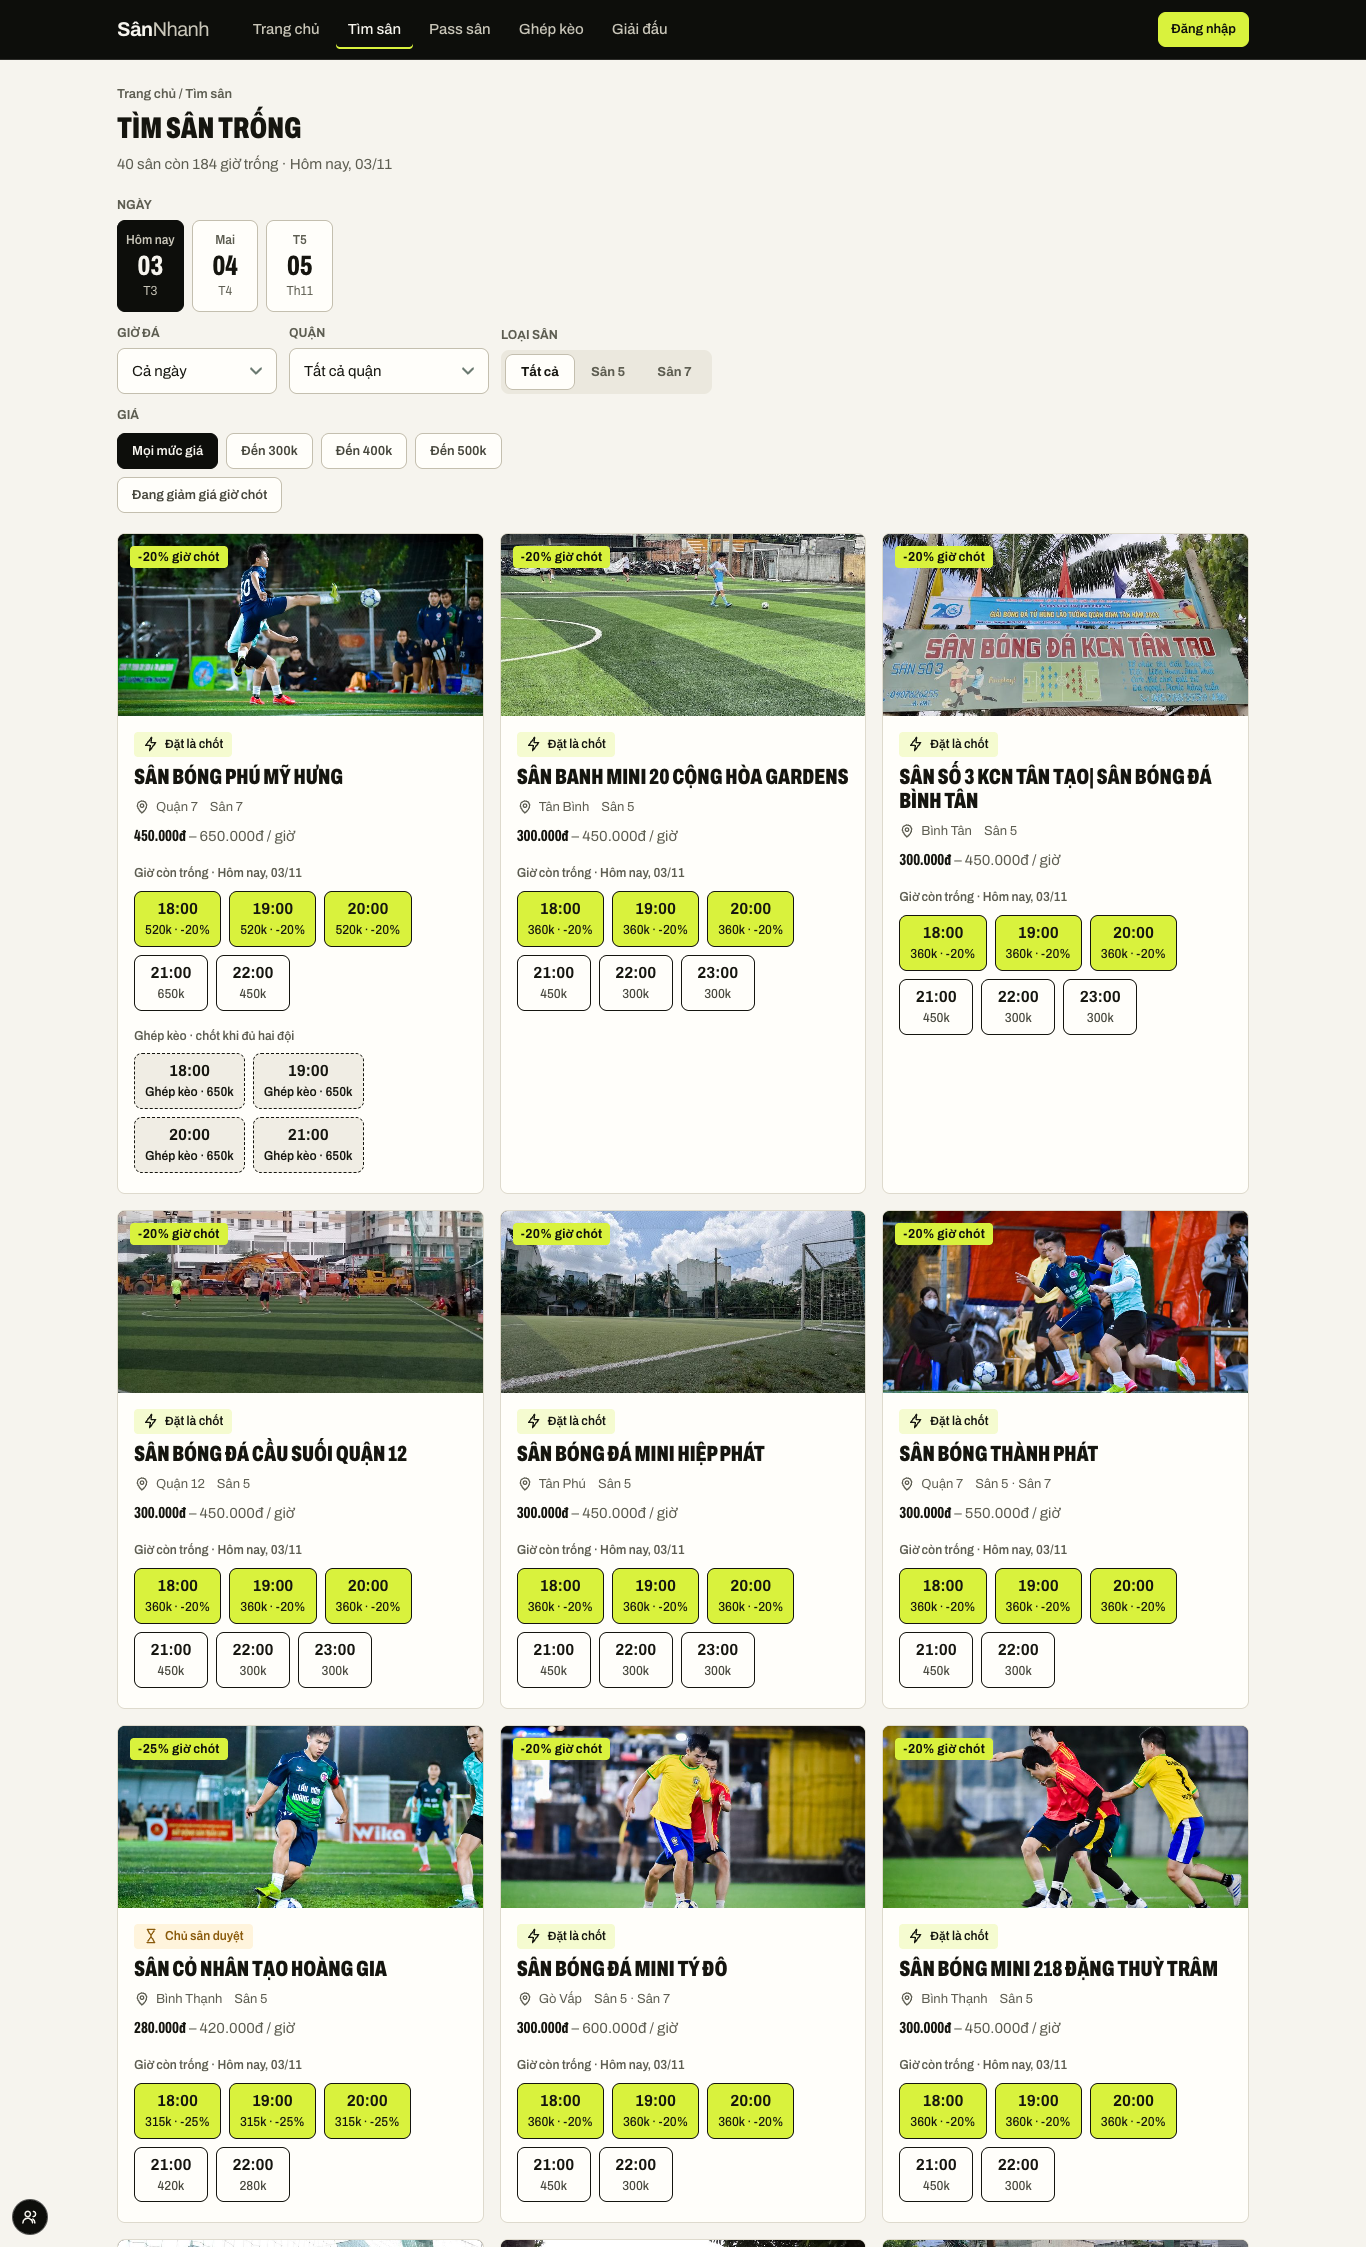
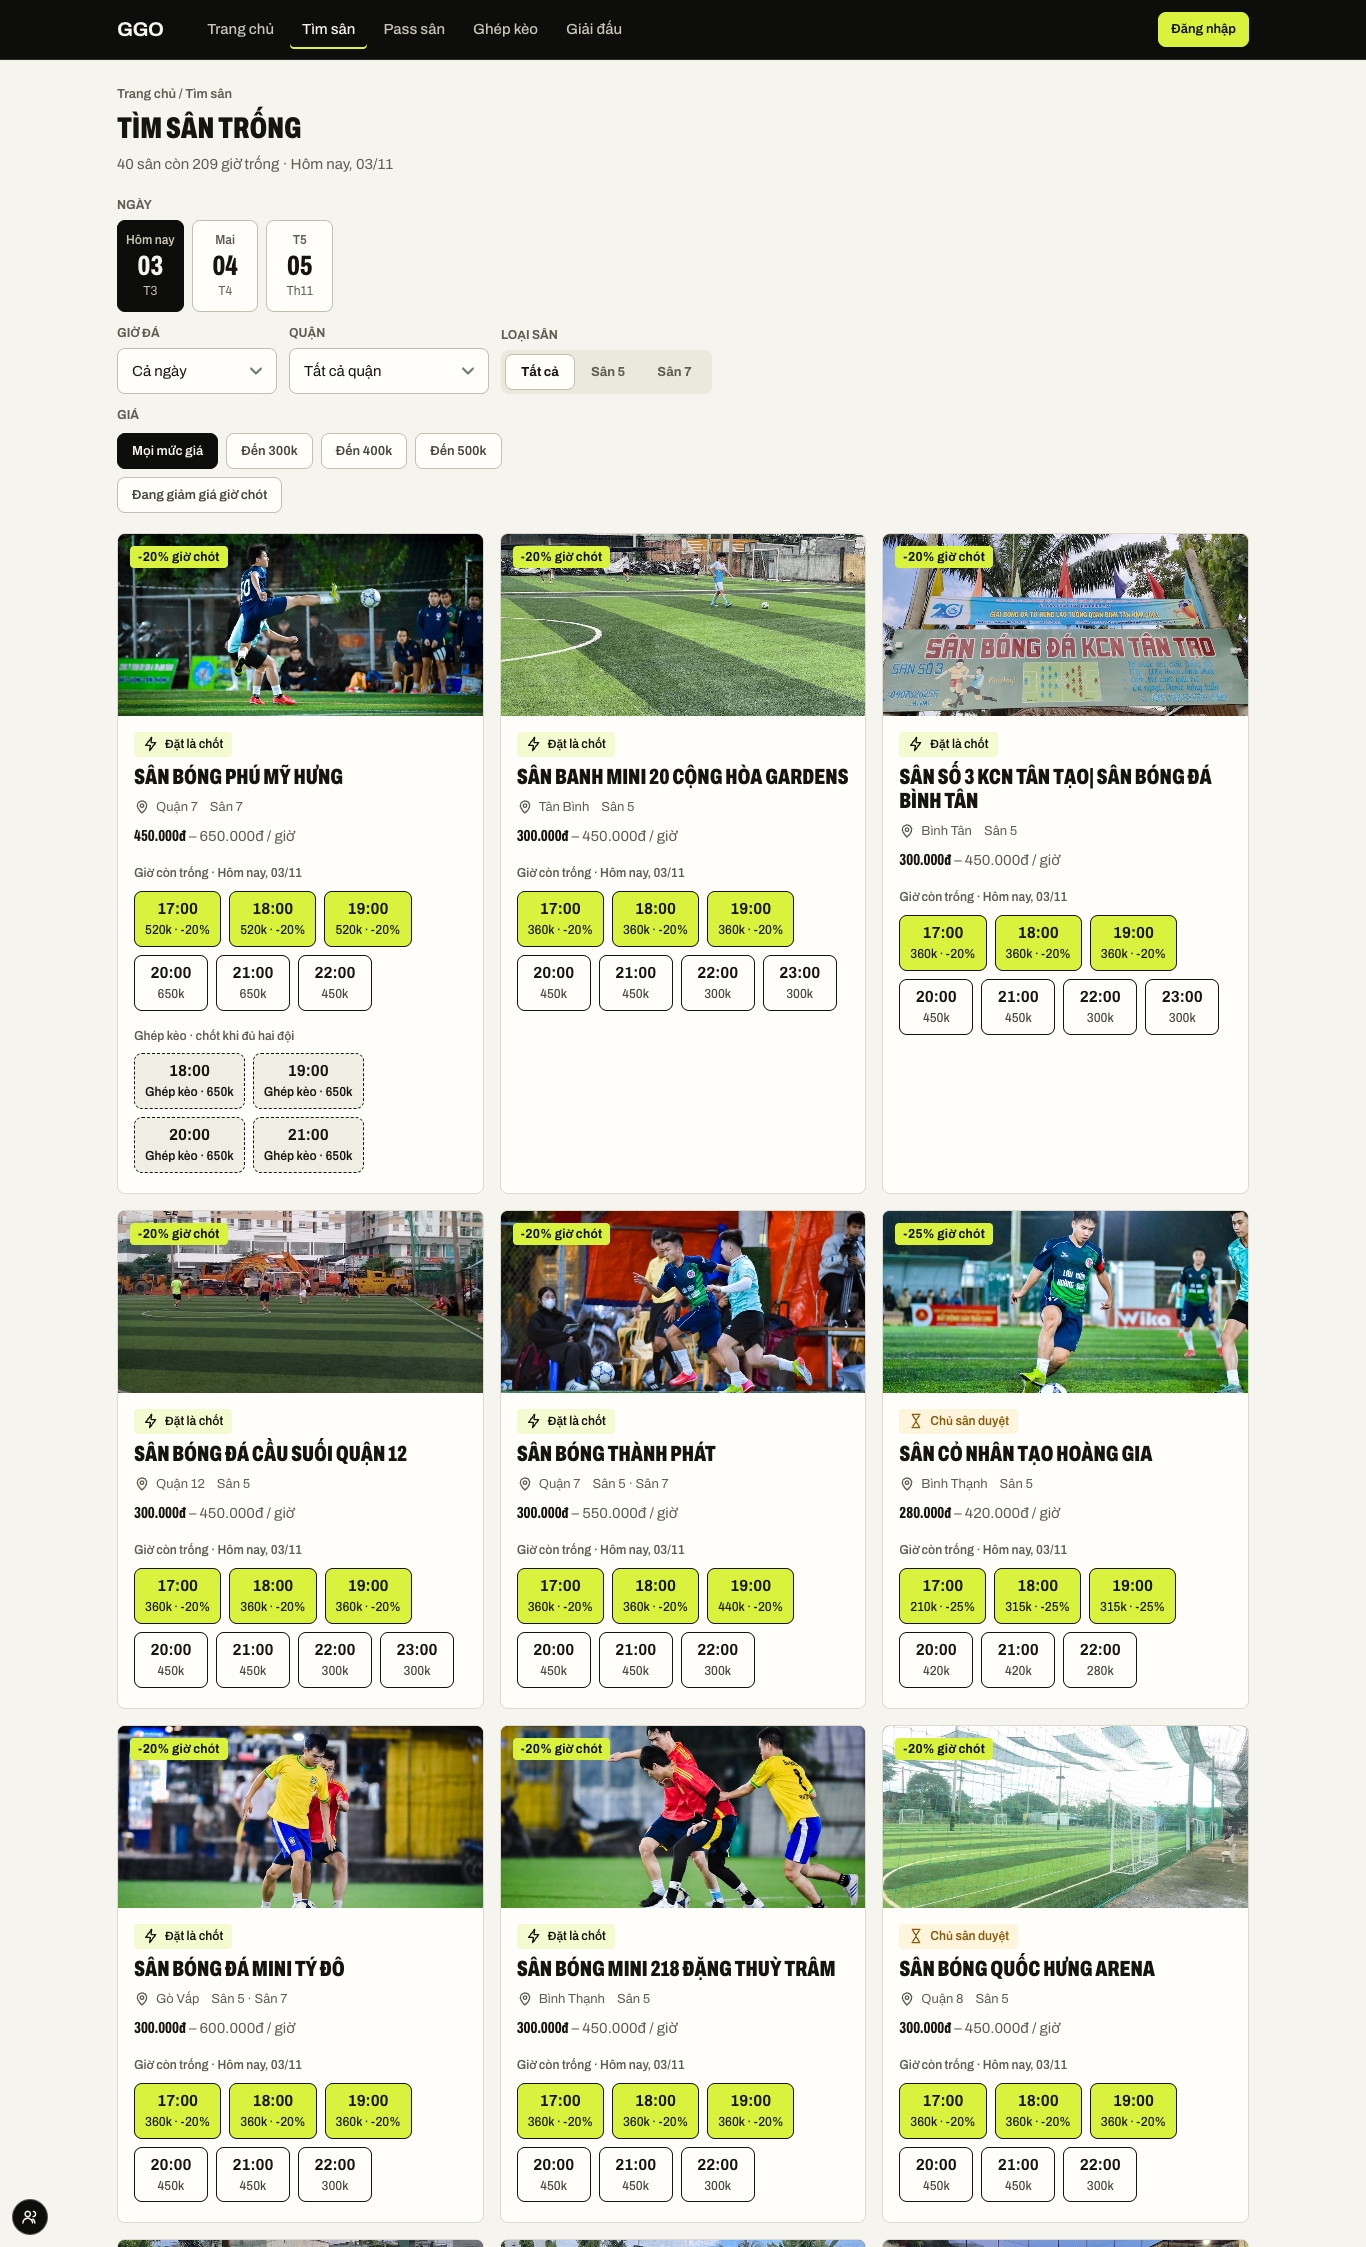
Chụp lại ảnh Buổi 2 với tên GGO và rà câu chữ báo cáo
Ảnh 4 trang ở ba khổ và ảnh hover/focus chụp lại trên bản dữ liệu giả.
Báo cáo và hồ sơ nộp mô tả đúng footer có khẩu hiệu, tiêu đề trang
giới thiệu và số dòng CSS hiện tại.

diff --git a/docs/buoi2/nop-bai.md b/docs/buoi2/nop-bai.md
@@ -34,6 +34,7 @@ Vì vậy **không viết là "chỉ dùng HTML/CSS"**. Phần HTML/CSS là các
 
 - **File:** `public/index.html` + `public/css/app.css`, header/footer dựng bởi `public/js/ui/shell.js`, nội dung bởi `public/js/index-page.js`.
 - **Header:** logo "GGO" (`.brand`), menu `<nav class="nav">` với Trang chủ, Tìm sân, Pass sân, Ghép kèo, Giải đấu, nút Đăng nhập (`shell.js`, hằng `NAV`).
+- **Footer:** `footer.site-footer` dựng bởi `shell.js`: logo GGO, khẩu hiệu "Thấy sân trống, đặt là đá." (`.footer-slogan`), một dòng mô tả, liên kết "Giới thiệu GGO" và chữ GGO cỡ lớn ở cuối (`.footer-wordmark`).
 - **Banner:** `section.match-hero` có ảnh (`hero-1920.jpg`, ảnh dọc riêng cho màn nhỏ bằng `<picture>`), tiêu đề `h1`, lời dẫn, form tìm sân (lời kêu gọi hành động) và nút "Xem tất cả giờ trống".
 - **Sân nổi bật:** khối "Sân còn trống" (`#venue-list`) và "Giờ trống gần nhất" (`#tonight-rows`).
 - **Liên kết tới trang danh sách:** form `action="/venues.html"` và liên kết "Xem tất cả giờ trống".
@@ -46,7 +47,7 @@ Vì vậy **không viết là "chỉ dùng HTML/CSS"**. Phần HTML/CSS là các
 - **File:** `public/venues.html`, thẻ sân dựng bởi `public/js/venues.js` (hàm tạo `<article class="card card-hover venue-card">`).
 - **Số lượng:** dữ liệu mẫu có **40 sân** (`public/mock/venues.json`), nhiều hơn mức tối thiểu 8. Số sân hiện ra thực tế phụ thuộc bộ lọc ngày/giờ/quận đang chọn.
 - **Mỗi thẻ có:** ảnh, tên, giá, giờ trống; bấm vào mở trang chi tiết.
-- **Bố cục:** `.card-grid` dùng CSS Grid, 1 cột (dưới 720 px), 2 cột (từ 720 px), 3 cột (từ 1100 px) (`public/css/app.css`, quanh dòng 2426).
+- **Bố cục:** `.card-grid` dùng CSS Grid, 1 cột (dưới 720 px), 2 cột (từ 720 px), 3 cột (từ 1100 px) (`public/css/app.css`, quanh dòng 2480).
 - **Danh mục:** có chip lọc ngày, giờ, quận, loại sân (không bắt buộc theo đề).
 
 ![Danh sách sân 1366](screens/danh-sach-san-1366.png)
@@ -64,6 +65,7 @@ Vì vậy **không viết là "chỉ dùng HTML/CSS"**. Phần HTML/CSS là các
 
 - **Có.** File `public/about.html` (script `public/js/about.js` chỉ dựng header và footer chung), dùng chung `public/css/app.css` (khối "Trang giới thiệu" ở cuối file). HTML semantic: `header`, `main`, các `section` có `h2`, `figure`/`figcaption`, `dl` cho thông tin liên hệ. Có title, description, og và canonical riêng, và nằm trong `public/sitemap.xml`.
 - **Nội dung trên trang** (căn cứ `docs/PRD.md` mục 1 và 2, chỉ nêu tính năng đã có trên giao diện):
+  - **Tiêu đề trang (`h1`):** khẩu hiệu "Thấy sân trống, đặt là đá.", cùng khẩu hiệu ở footer.
   - **Kinh doanh gì:** website đặt sân bóng đá mini 5 và 7 người ở TP.HCM; khách xem giờ trống, giá thật và đặt sân trên web, không cần gọi điện.
   - **Khách hàng là ai:** hai thẻ "Đội đá phủi và nhóm bạn" và "Chủ sân mini".
   - **Điểm nổi bật** (6 mục): tìm theo giờ trước, chọn sân sau; giá thật và giờ chót giảm giá; "Báo tôi khi trống" (danh sách chờ); chuyển khoản VietQR thẳng cho chủ sân, web không giữ tiền; ba cách khác để có sân (Pass sân, Ghép kèo, Nhờ báo giá); Giải đấu phủi.
@@ -95,9 +97,9 @@ Danh sách lỗi giao diện ở ba khổ (tràn ngang, ảnh méo, menu chồng
 Trong mã (`public/css/app.css`):
 
 - **Focus bàn phím chung:** `:focus-visible { outline: 2px solid var(--focus); outline-offset: 2px; }` (dòng 135–138). Biến `--focus` là mực `#15150f` trên nền sáng và lime `#d9f23d` trên vùng nền tối (header, menu điện thoại, footer, ảnh nền trang chủ, dải đen, giải đấu, hộp thông báo, bảng công cụ demo): dòng 139–161. Dùng `outline` nên không làm xê dịch bố cục.
-- **Liên kết menu:** `.nav a:hover` đổi màu, `transition: color` (dòng 307–321).
-- **Nút:** `.btn:hover`, `.btn-primary:hover`, `.btn-lime:hover`… đổi viền/nền, `transition: background, border-color` (dòng 651–722).
-- **Thẻ sân:** `.card-hover:hover` đổi màu viền, `transition: border-color` (dòng 955–960). **Tên sân trong thẻ:** `.venue-card .title:hover` hiện gạch chân 2 px màu mực, `transition: text-decoration-color` (dòng 989–1001).
+- **Liên kết menu:** `.nav a:hover` đổi màu, `transition: color` (dòng 307–319).
+- **Nút:** `.btn:hover`, `.btn-primary:hover`, `.btn-lime:hover`… đổi viền/nền, `transition: background, border-color` (dòng 651–723).
+- **Thẻ sân:** `.card-hover:hover` đổi màu viền, `transition: border-color` (dòng 952–957). **Tên sân trong thẻ:** `.venue-card .title:hover` hiện gạch chân 2 px màu mực, `transition: text-decoration-color` (dòng 989–1001).
 - **Ô giờ trên thẻ sân:** `.slot-pill:hover` (dòng 1065).
 - **Tôn trọng người giảm chuyển động:** khối `@media (prefers-reduced-motion: reduce)` (dòng 166).
 
@@ -147,7 +149,7 @@ Một ghi nhận khác, không phải lỗi: `docs/TASKS.md` mục T6 ghi "Đã 
 
 | # | Lỗi | Trang / khổ | Cách xử lý | Kết quả (số đo trước → sau) |
 | --- | --- | --- | --- | --- |
-| 1 | Một số nút **nhỏ hơn 44 px** (mức thường khuyên cho vùng bấm trên điện thoại) | 390 px: nút Đăng nhập, chip lọc ở danh sách, nút "Báo tôi khi trống", nút mở menu | **Đã xử lý.** Khối `@media (max-width: 639.98px)` ở cuối `public/css/app.css` (dòng 3332–3346) đặt `min-height: 44px` cho `.btn-sm`, `.chip`, `.segmented button`, `.slot .wait-btn`, `.role-switch button`, `.proto-tools button` và nút menu 44×44 px; ô chọn ở khung tìm kiếm trang chủ được kéo phủ cả ô để vùng bấm cao 48 px mà ô giữ nguyên kích thước (dòng 1426–1435) | Đăng nhập 91×34 → 91×44 px; chip lọc 36 → 44 px; "Báo tôi khi trống" 114×33 → 114×44 px; nút menu 40×40 → 44×44 px. Rà thêm cả 3 trang ở 390: "Muốn đăng ký đội?" 34 → 44; nút chọn sân (Sân 1 · 5…) và "Tất cả / Sân 5 / Sân 7" 36 → 44; 4 ô chọn ở trang chủ 26 → 48 px; nút chọn vai trò và nút giả lập (chỉ có trên dữ liệu giả) 39 → 44. Sau khi sửa không còn nút hay ô chọn nào dưới 44 px trên 3 trang; không tràn ngang ở 9 trường hợp |
+| 1 | Một số nút **nhỏ hơn 44 px** (mức thường khuyên cho vùng bấm trên điện thoại) | 390 px: nút Đăng nhập, chip lọc ở danh sách, nút "Báo tôi khi trống", nút mở menu | **Đã xử lý.** Khối `@media (max-width: 639.98px)` ở cuối `public/css/app.css` (dòng 3338–3351) đặt `min-height: 44px` cho `.btn-sm`, `.chip`, `.segmented button`, `.slot .wait-btn`, `.role-switch button`, `.proto-tools button` và nút menu 44×44 px; ô chọn ở khung tìm kiếm trang chủ được kéo phủ cả ô để vùng bấm cao 48 px mà ô giữ nguyên kích thước (dòng 1426–1435) | Đăng nhập 91×34 → 91×44 px; chip lọc 36 → 44 px; "Báo tôi khi trống" 114×33 → 114×44 px; nút menu 40×40 → 44×44 px. Rà thêm cả 3 trang ở 390: "Muốn đăng ký đội?" 34 → 44; nút chọn sân (Sân 1 · 5…) và "Tất cả / Sân 5 / Sân 7" 36 → 44; 4 ô chọn ở trang chủ 26 → 48 px; nút chọn vai trò và nút giả lập (chỉ có trên dữ liệu giả) 39 → 44. Sau khi sửa không còn nút hay ô chọn nào dưới 44 px trên 3 trang; không tràn ngang ở 9 trường hợp |
 | 2 | Tên sân (đóng vai trò liên kết xem chi tiết) **không có hiệu ứng hover riêng**; chỉ thẻ chứa nó đổi viền | Danh sách sân, mọi khổ | **Đã xử lý.** `.venue-card .title` có gạch chân 2 px trong suốt, `.venue-card .title:hover` đổi màu gạch chân sang mực, `transition: text-decoration-color var(--dur)` (`public/css/app.css` dòng 989–1001). Không đổi cỡ chữ hay độ đậm | Trước: màu và gạch chân không đổi, `transition: all 0s`. Sau: gạch chân từ trong suốt sang `#15150f`, `transition: text-decoration-color 0.18s`; kích thước trước/sau hover giữ nguyên 332,7×24,2 px, vị trí không đổi; ảnh `hover-xem-chi-tiet.png` |
 | 3 | Trang chủ **chưa có liên kết tới trang giới thiệu** | Trang chủ | **Đã xử lý.** Thêm trang `public/about.html` (mục 5), liên kết "Giới thiệu GGO" ở footer mọi trang (`public/js/ui/shell.js`) và liên kết "Tìm hiểu về GGO →" ở cuối trang chủ (`public/index.html`). Không đặt vào menu trên cùng vì ở khổ 900 px menu sẽ bị tràn | Trước: không có trang giới thiệu trong `public/`. Sau: trang có và trả 200, đã thêm vào `public/sitemap.xml`; hai liên kết trên đều trỏ tới `about.html` |
 | 5 | **Vòng focus gần như không thấy trên nền tối**: quy tắc chung `:focus-visible { outline: 2px solid var(--text) }` dùng màu `#15150f` trên nền header `#0d0e0b` | Header và menu điện thoại, mọi khổ (liên kết menu, logo, nút Đăng nhập, nút mở menu, mục trong menu, nút khung tìm kiếm trang chủ) | **Đã xử lý.** Vòng focus dùng biến `--focus`: mực trên nền sáng, lime `#d9f23d` trên các vùng nền tối (dòng 135–161). Khung tìm kiếm trang chủ (nền trắng nằm trong ảnh tối) trả lại mực; nút trong khung đó vẽ vòng vào trong nút (`outline-offset: -4px`) vì khung cắt phần vẽ ra ngoài. Nút công cụ demo nổi vẽ vòng lime sát nút (dòng 463–467). Khi kiểm còn phát hiện và sửa thêm hai lỗi cùng nhóm: menu điện thoại đóng vẫn nhận phím Tab dù đã mờ hẳn (nay `visibility: hidden` khi đóng, dòng 401), và header dính che phần tử đang focus khi Tab ngược (`scroll-padding-top` ở dòng 98) | Đo bằng ảnh chụp thật ở mỗi lần Tab, lấy màu nền ngay quanh vòng (3 trang, 390 và 1366, Tab xuôi và ngược, trước 363 mẫu, sau 355 mẫu có vòng): tương phản vòng với nền **trước: 1,06:1** ở header (135 mẫu dưới 3:1); **sau: 15,41:1** trên nền tối, 14,59:1 (vòng mực vào trong nút lime), 16,66–18,16:1 trên nền sáng (liên kết, thẻ, nút Đặt sân). Còn 5 mẫu bị đánh dấu là nút công cụ demo (chỉ có trên dữ liệu giả): vòng sát nút đen nên tương phản đo với chính nút là 15,41:1, không đo với nền trang. Ảnh `focus-lien-ket-menu.png`, `focus-nut-menu.png` |

diff --git a/docs/buoi2/bao-cao.md b/docs/buoi2/bao-cao.md
@@ -41,7 +41,7 @@ Quy ước ánh xạ theo đề: "sản phẩm" là **sân bóng**, "nút mua" l
 | --- | --- | --- |
 | Header (logo, menu, nút Đăng nhập) | `<header class="site-header">` trong `public/js/ui/shell.js` | Mọi trang |
 | Menu điện thoại | `<nav class="mobile-nav">`, nút `.menu-btn` | Mọi trang, dưới 900 px |
-| Footer | `<footer class="site-footer">` trong `shell.js` | Mọi trang |
+| Footer (logo GGO, khẩu hiệu, liên kết Giới thiệu, chữ GGO cỡ lớn) | `<footer class="site-footer">` trong `shell.js` | Mọi trang |
 | Nút | `.btn`, `.btn-lime`, `.btn-primary`, `.btn-sm`, `.btn-lg` | Mọi trang |
 | Thẻ sân | `.card.card-hover.venue-card` | Trang chủ, danh sách sân |
 | Chip lọc, ô giờ | `.chip`, `.slot-pill` | Trang chủ, danh sách, chi tiết |
@@ -187,10 +187,10 @@ Các trang liên kết CSS và ảnh bằng đường dẫn **tính từ gốc w
 
 ## 3.1. Bố cục từng trang
 
-- **Trang chủ:** header tối, banner ảnh sân bóng có tiêu đề lớn "Tối nay đá ở đâu?" và ô tìm sân, rồi đến dải giờ trống gần nhất, danh sách sân còn trống, khối giới thiệu cách đặt sân, cuối cùng là footer.
+- **Trang chủ:** header tối, banner ảnh sân bóng có tiêu đề lớn "Tối nay đá ở đâu?" và ô tìm sân, rồi đến dải giờ trống gần nhất, danh sách sân còn trống, khối giới thiệu cách đặt sân, cuối cùng là footer có khẩu hiệu "Thấy sân trống, đặt là đá.".
 - **Danh sách sân:** tiêu đề trang, hàng chip lọc, lưới thẻ sân 3/2/1 cột.
 - **Chi tiết sân:** breadcrumb, ảnh sân lớn, tên và giá, thông tin sân, lưới giờ trống, thanh **Đặt sân** cố định ở cuối màn hình.
-- **Giới thiệu:** phần mở đầu chữ + ảnh, "GGO làm gì", "Dành cho ai" (2 thẻ), "Điểm nổi bật" (6 mục trên nền tối), ảnh minh họa, "Liên hệ".
+- **Giới thiệu:** phần mở đầu có tiêu đề lớn "Thấy sân trống, đặt là đá." (khẩu hiệu của GGO) kèm ảnh, "GGO làm gì", "Dành cho ai" (2 thẻ), "Điểm nổi bật" (6 mục trên nền tối), ảnh minh họa, "Liên hệ".
 
 ## 3.2. Bảng màu và kiểu chữ thống nhất
 
@@ -241,7 +241,7 @@ Header dùng thẻ semantic `<header>` chứa logo, `<nav>` chứa menu và nút
 ```
 <header class="site-header">
   <div class="container">
-    <a class="brand" href="/">GGO</a>
+    <a class="brand" href="/">…dấu logo…<span>GGO</span></a>
     <nav class="nav" aria-label="Điều hướng chính">…các liên kết…</nav>
     <div class="header-actions">
       <a class="btn btn-lime btn-sm" href="/login.html">Đăng nhập</a>
